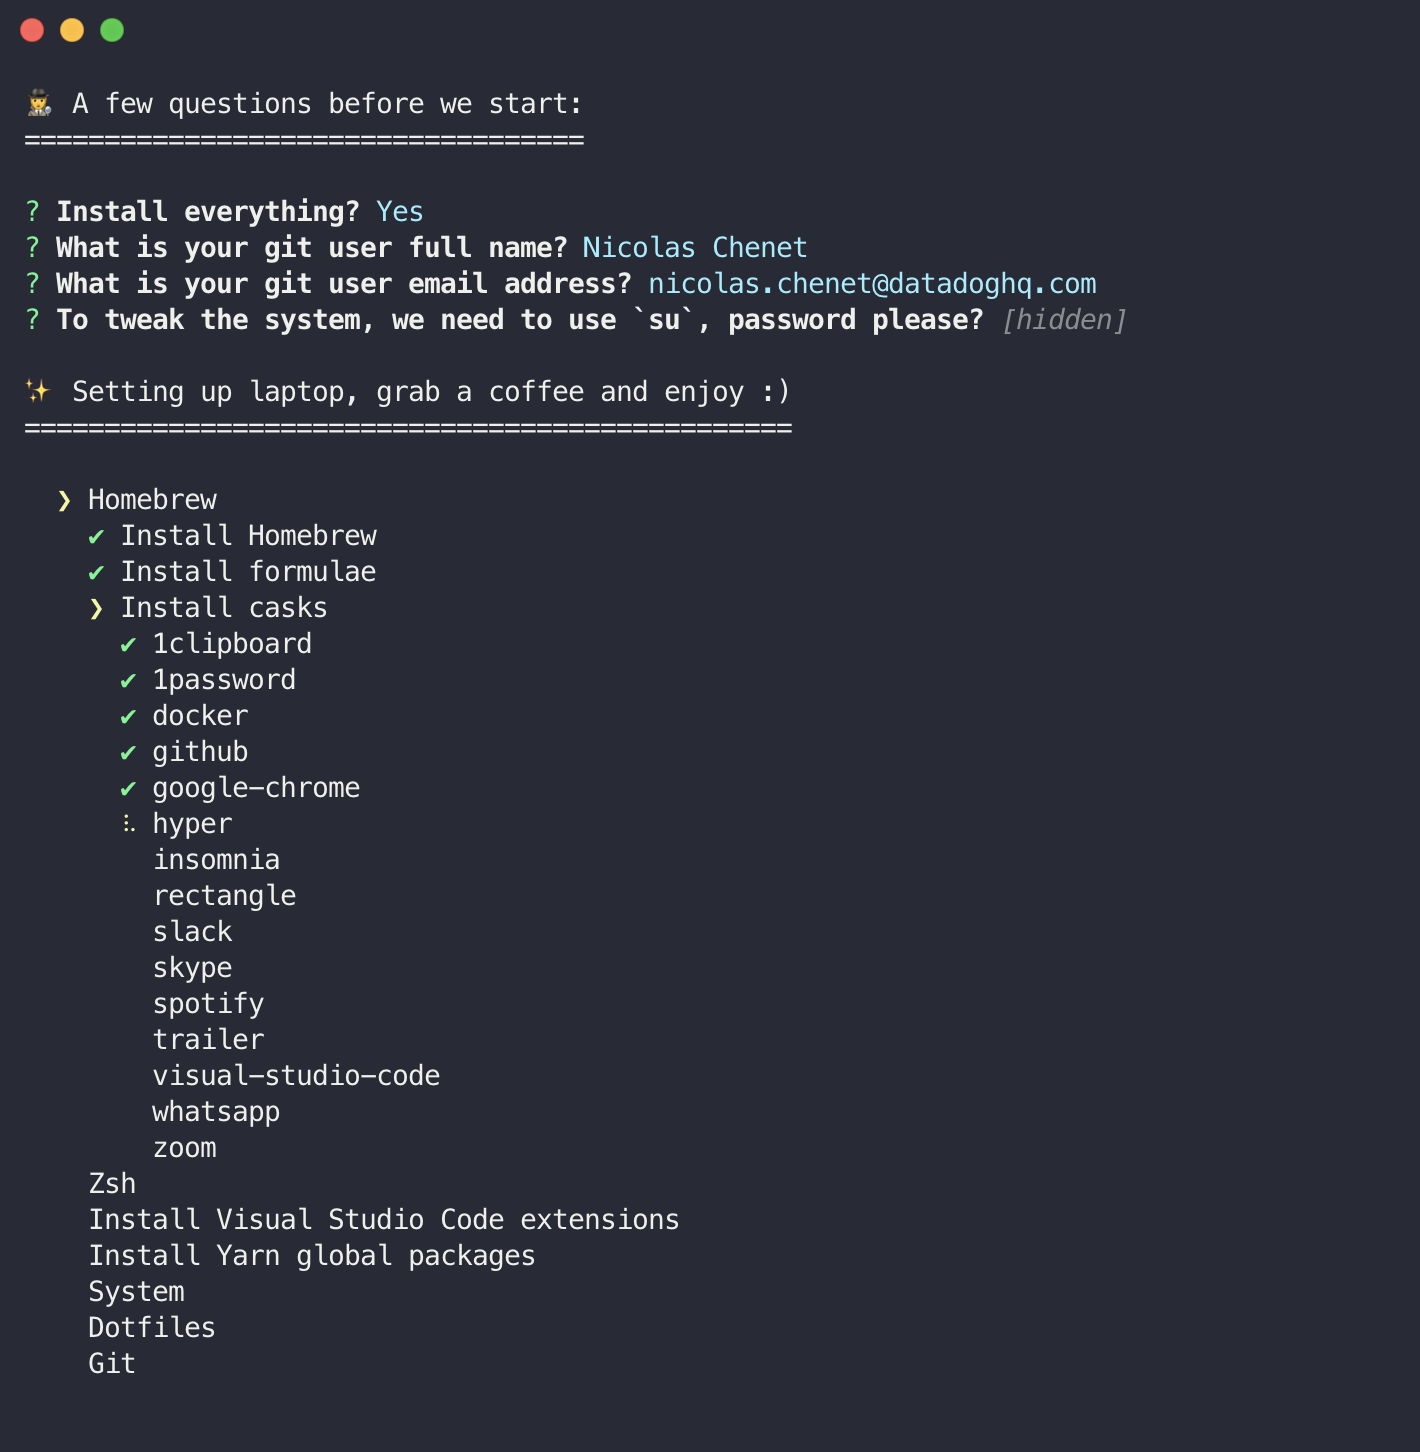
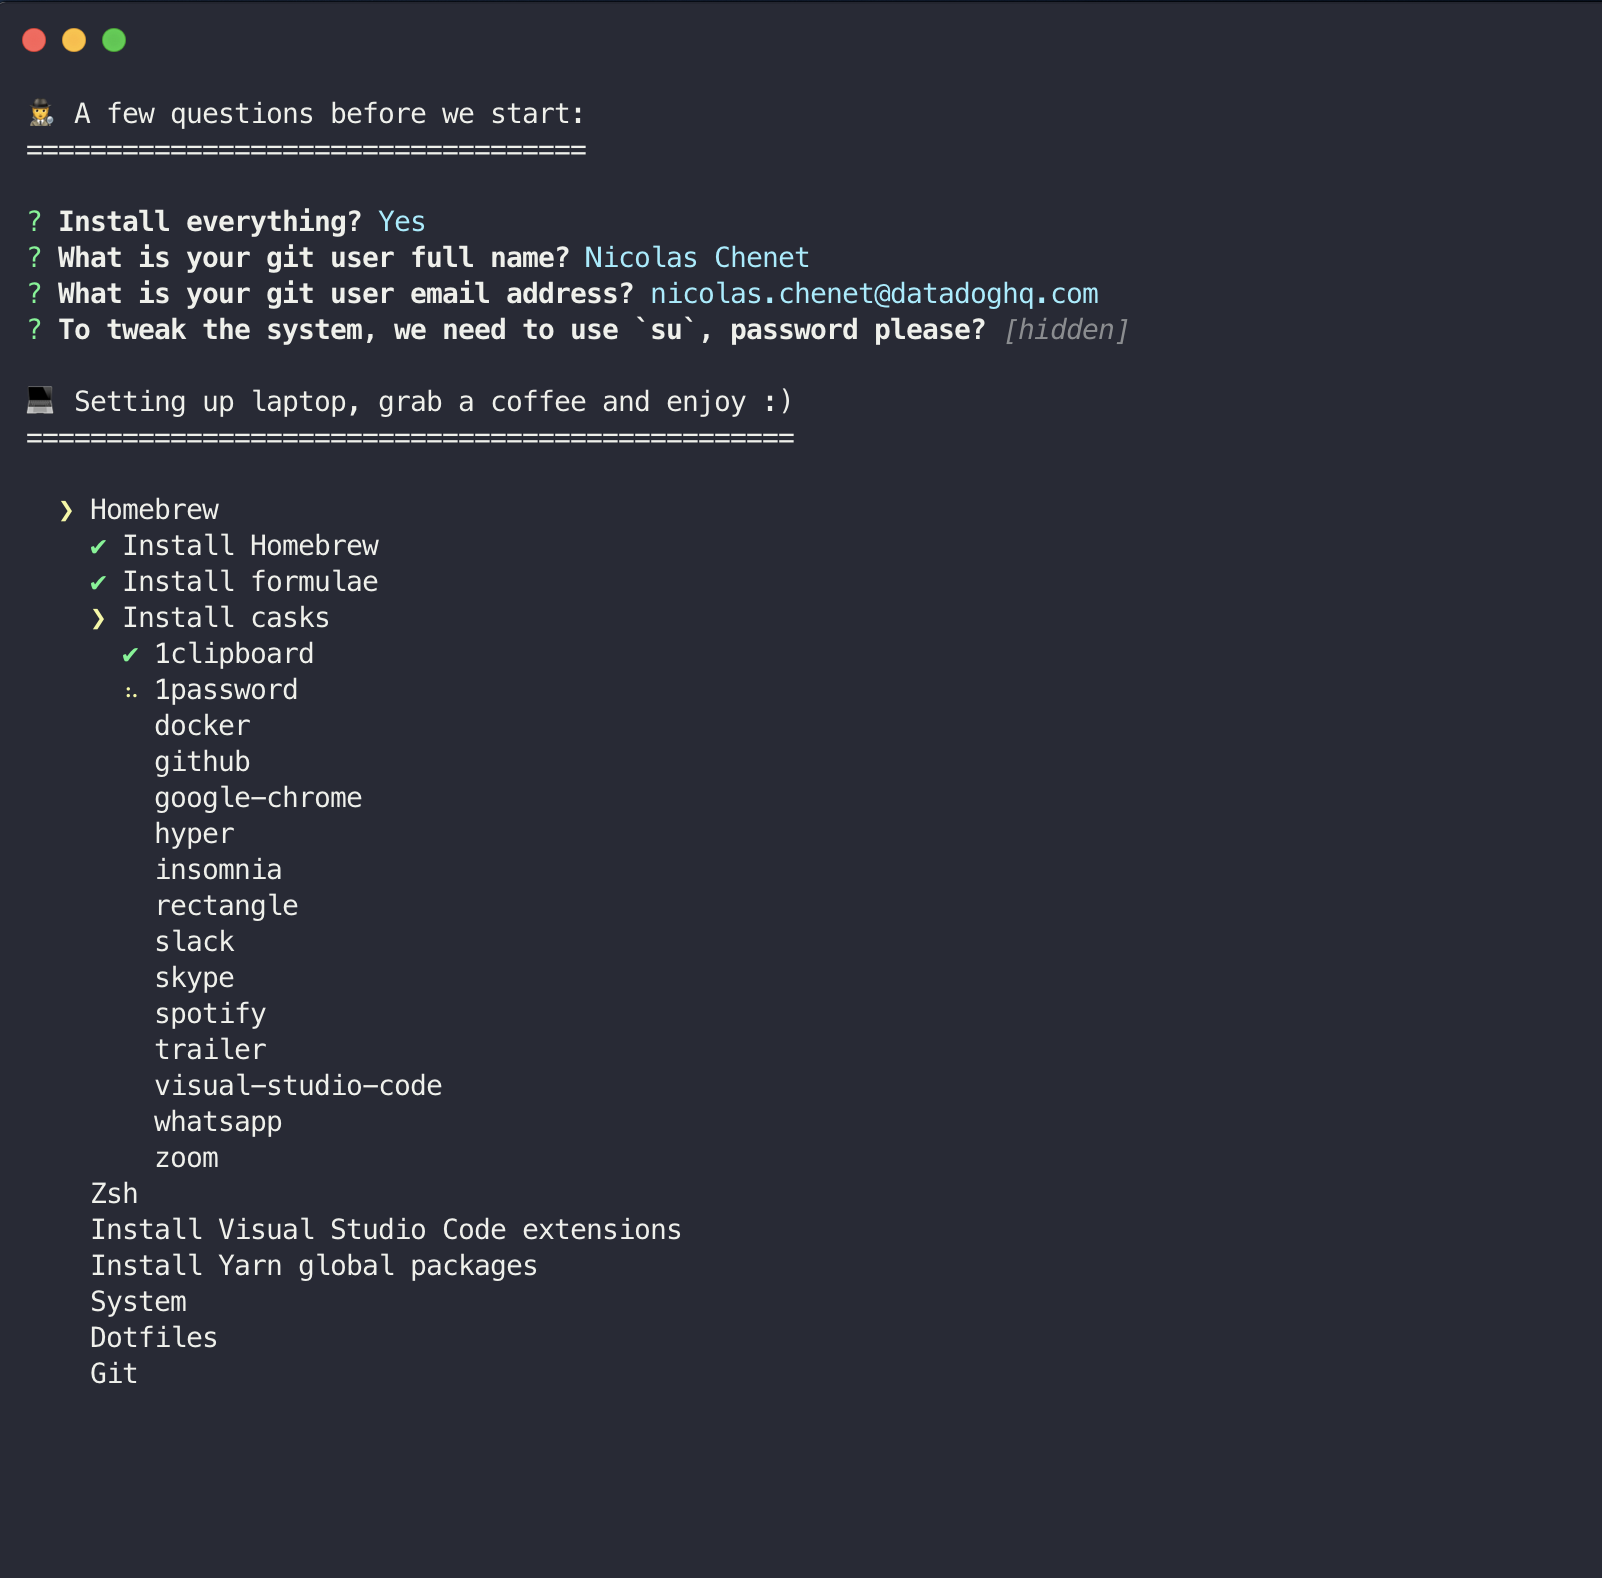
💄 Install | Emoji stuff

Changed region(s): [[0.0, 0.062, 0.7746, 0.9607], [0.0, 0.0, 0.093, 0.031], [0.2789, 0.7128, 0.3099, 0.7438]]

diff --git a/src/index.ts b/src/index.ts
@@ -106,7 +106,7 @@ const tasks = new Listr([{
 }])
 
 const runTasks = () => {
-  console.log('\n✨  Setting up laptop, grab a coffee and enjoy :)')
+  console.log('\n💻  Setting up laptop, grab a coffee and enjoy :)')
   console.log('================================================\n')
   tasks
   .run()
